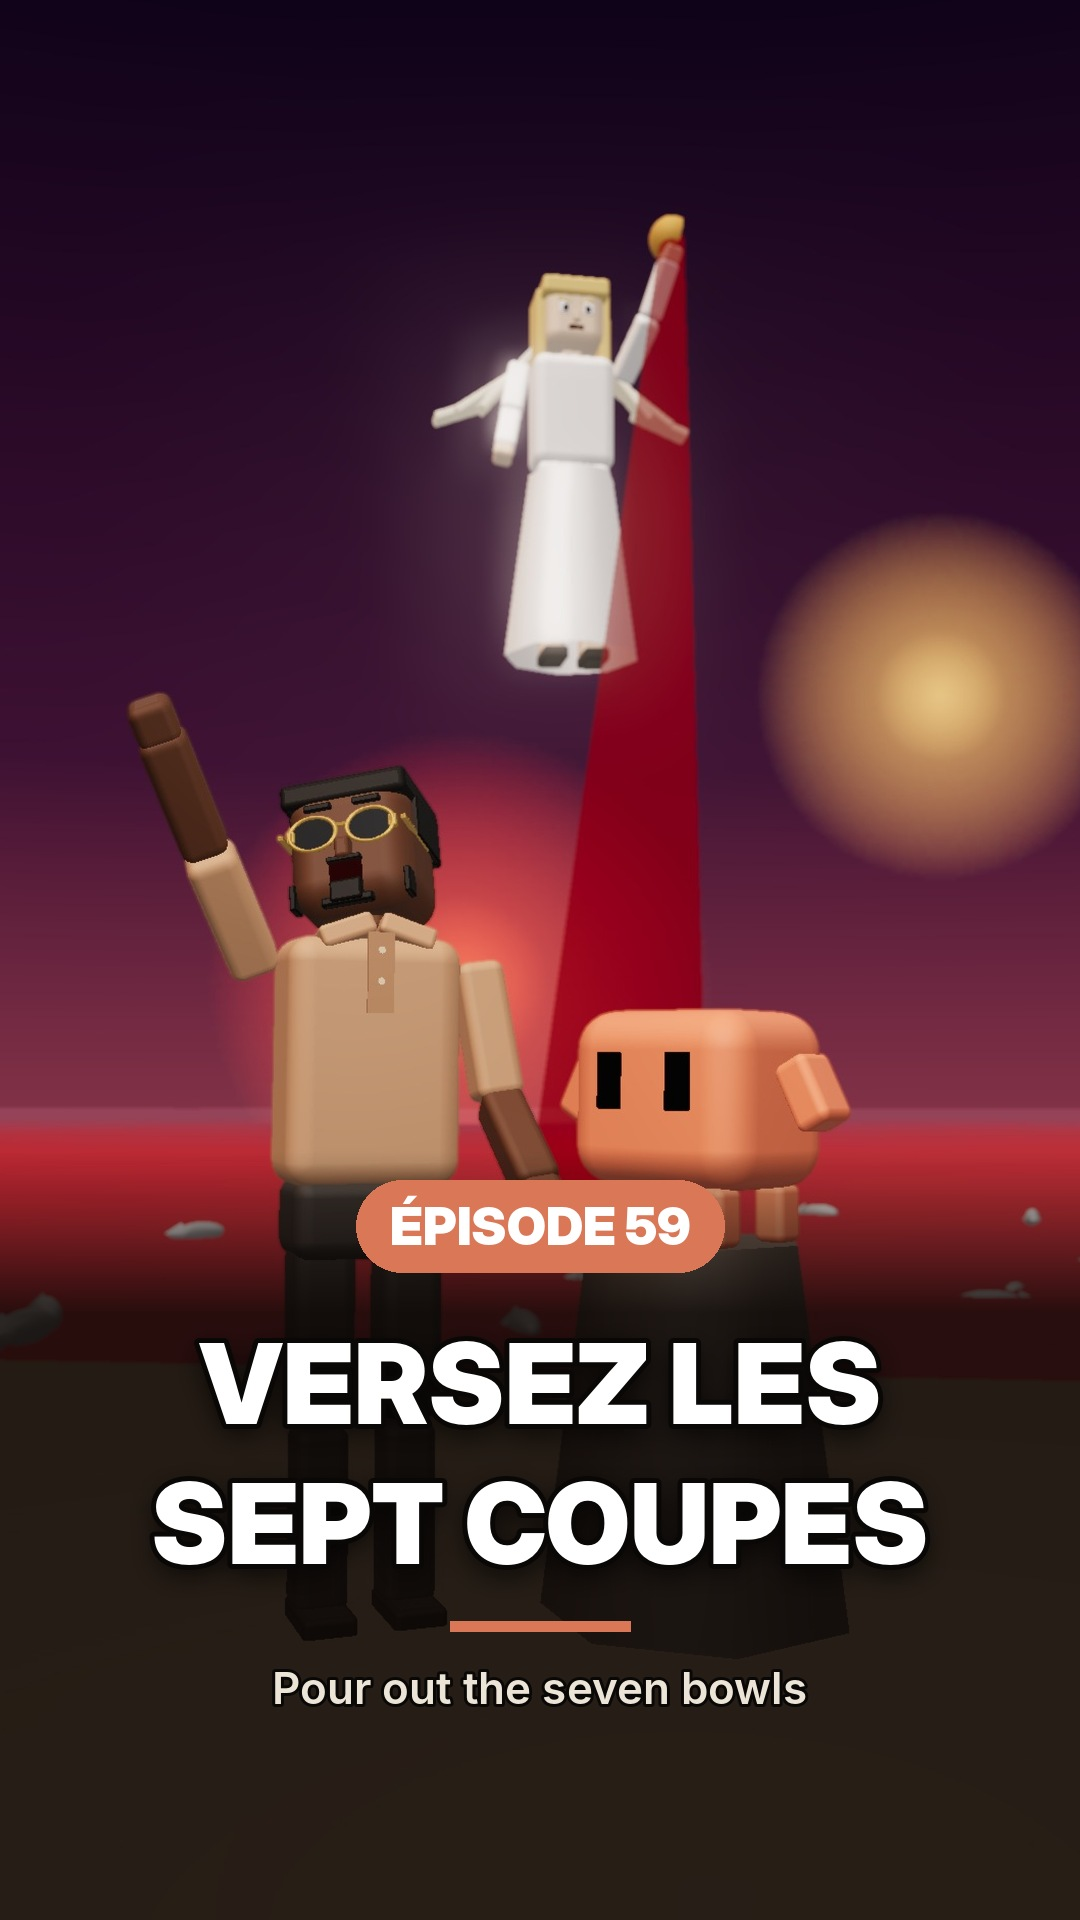
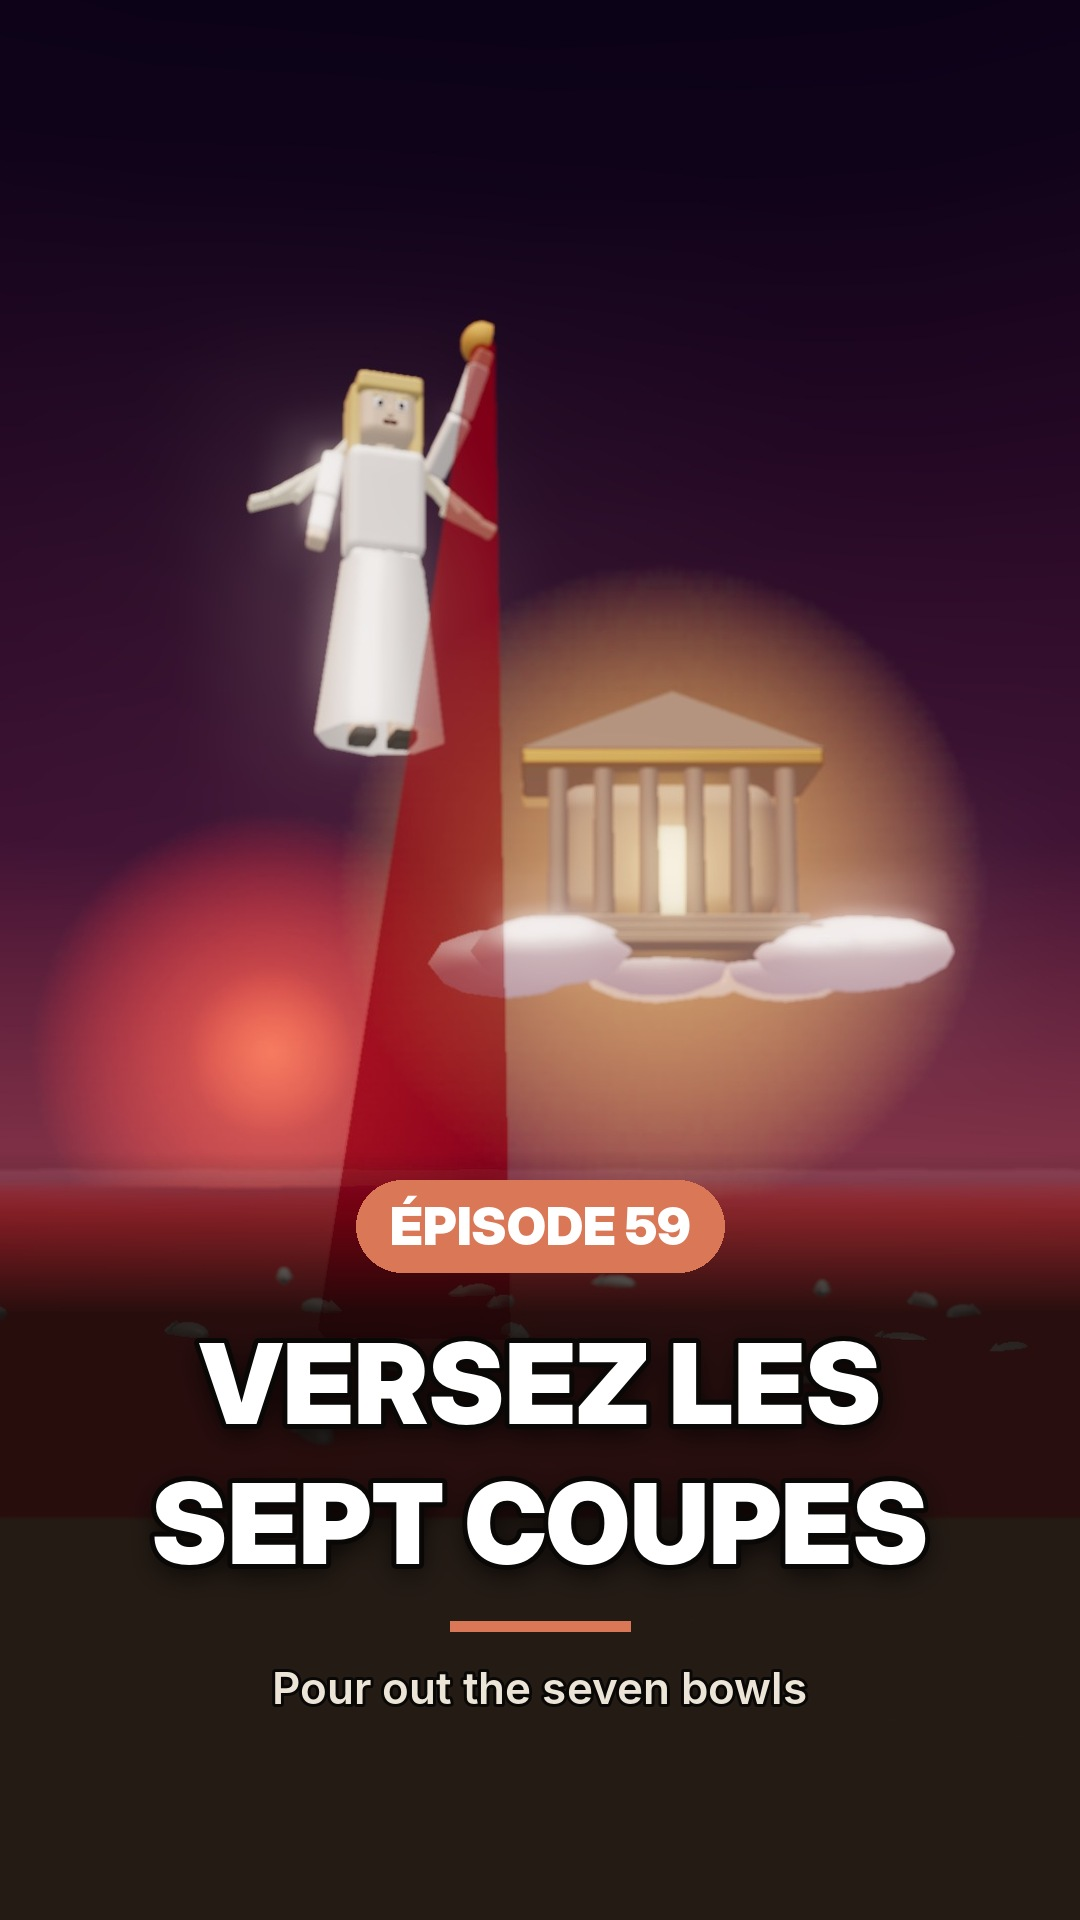
Ep59 : couverture sans les narrateurs (mer de sang, ange, temple dans le ciel)
Claude-Session: https://claude.ai/code/session_01MdC9EJzPZBt7d4WGFxbM4i

diff --git a/ep59/web/body.js b/ep59/web/body.js
@@ -1042,11 +1042,10 @@ SETS.cover = () => {
   const B = seaSet(); const { scene, cam } = B;
   const an = bowlAngel(1); an.root.scale.setScalar(3); an.place(-1.8, 7.5, -18, 0.3); scene.add(an.root); angelLight(scene, [-1, 11, -14]).intensity = 4;
   const stream = pourStream(scene);
-  const d = duo(scene, 0.15, 2.4, 0.25);
-  const tg = softGlow(10, 0xffe0a0); tg.position.set(6, 12, -40); scene.add(tg);
+  const tp = temple(scene, -55, 1.3); tp.position.set(5.5, 9, -55); const tg = softGlow(26, 0xffe0a0); tg.position.set(5.5, 12, -57); scene.add(tg);
+  const cl = clouds(scene, 10, 8.6, 8, { em: 0x8a5a6a, op: 1 }); cl.forEach((c, i) => { c.position.set(5.5 + (hash(i * 3) - 0.5) * 16, 8.4 + hash(i) * 0.6, -52 - hash(i * 7) * 8); c.scale.multiplyScalar(1.8); });
   return { ...B, update() { const t = 3; B.water.update(t, 0.08); B.blood(1); B.fishUpd(t, 1); an.pose({ aL: [2.4, 0.3], eL: 0.4, aR: [0.4, 0.2] }); an.bowl.rotation.z = -1.6; an.face(0, 'serious', t); aimStreamTo(an, stream, 1, new THREE.Vector3(-0.5, -0.2, -9));
-    d.update(t, { look: 1, hy: -0.55, hp: -0.32, expr: 'awe', mood: {}, poseA: { aR: [2.5, 0.45], eR: 0.15, aL: [0.15, 0.14], hy: -0.55, hp: -0.32 } }); d.c.g.rotation.y = -0.9; d.c.update(t, 0, { armsUp: 0.15 }); d.a.face(0, 'awe', t);
-    cam.position.set(0.7, 1.15, 6.3); cam.fov = 60; cam.updateProjectionMatrix(); cam.lookAt(-0.8, 2.15, -6); cam.userData.focus = 3.2; } };
+    cam.position.set(0.6, 1.3, 5.0); cam.fov = 64; cam.updateProjectionMatrix(); cam.lookAt(0.6, 4.2, -18); cam.userData.focus = 14; } };
 };
 
 const SHOTS = [['intro', 0, SC.temple.start], ['temple', SC.temple.start, SC.ulcere.start], ['ulcere', SC.ulcere.start, SC.egypte.start], ['egypte', SC.egypte.start, SC.mer.start], ['mer', SC.mer.start, SC.fin.start], ['fin', SC.fin.start, 1000], ['cover', 1000, 1e9]];

diff --git a/ep59/web/sets59.js b/ep59/web/sets59.js
@@ -272,11 +272,10 @@ SETS.cover = () => {
   const B = seaSet(); const { scene, cam } = B;
   const an = bowlAngel(1); an.root.scale.setScalar(3); an.place(-1.8, 7.5, -18, 0.3); scene.add(an.root); angelLight(scene, [-1, 11, -14]).intensity = 4;
   const stream = pourStream(scene);
-  const d = duo(scene, 0.15, 2.4, 0.25);
-  const tg = softGlow(10, 0xffe0a0); tg.position.set(6, 12, -40); scene.add(tg);
+  const tp = temple(scene, -55, 1.3); tp.position.set(5.5, 9, -55); const tg = softGlow(26, 0xffe0a0); tg.position.set(5.5, 12, -57); scene.add(tg);
+  const cl = clouds(scene, 10, 8.6, 8, { em: 0x8a5a6a, op: 1 }); cl.forEach((c, i) => { c.position.set(5.5 + (hash(i * 3) - 0.5) * 16, 8.4 + hash(i) * 0.6, -52 - hash(i * 7) * 8); c.scale.multiplyScalar(1.8); });
   return { ...B, update() { const t = 3; B.water.update(t, 0.08); B.blood(1); B.fishUpd(t, 1); an.pose({ aL: [2.4, 0.3], eL: 0.4, aR: [0.4, 0.2] }); an.bowl.rotation.z = -1.6; an.face(0, 'serious', t); aimStreamTo(an, stream, 1, new THREE.Vector3(-0.5, -0.2, -9));
-    d.update(t, { look: 1, hy: -0.55, hp: -0.32, expr: 'awe', mood: {}, poseA: { aR: [2.5, 0.45], eR: 0.15, aL: [0.15, 0.14], hy: -0.55, hp: -0.32 } }); d.c.g.rotation.y = -0.9; d.c.update(t, 0, { armsUp: 0.15 }); d.a.face(0, 'awe', t);
-    cam.position.set(0.7, 1.15, 6.3); cam.fov = 60; cam.updateProjectionMatrix(); cam.lookAt(-0.8, 2.15, -6); cam.userData.focus = 3.2; } };
+    cam.position.set(0.6, 1.3, 5.0); cam.fov = 64; cam.updateProjectionMatrix(); cam.lookAt(0.6, 4.2, -18); cam.userData.focus = 14; } };
 };
 
 const SHOTS = [['intro', 0, SC.temple.start], ['temple', SC.temple.start, SC.ulcere.start], ['ulcere', SC.ulcere.start, SC.egypte.start], ['egypte', SC.egypte.start, SC.mer.start], ['mer', SC.mer.start, SC.fin.start], ['fin', SC.fin.start, 1000], ['cover', 1000, 1e9]];
